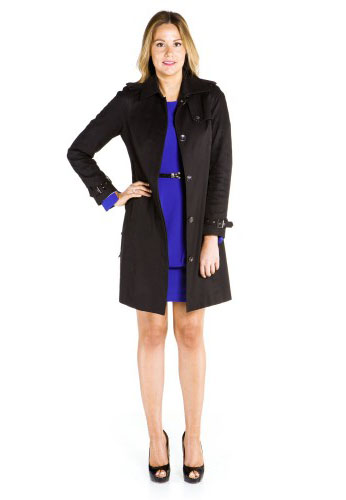
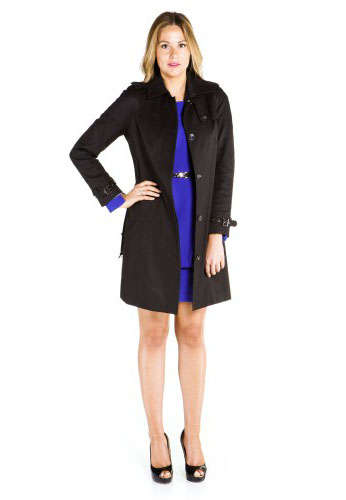
built

diff --git a/index.html b/index.html
@@ -4,9 +4,9 @@
     <meta charset="UTF-8">
     <title></title>
     <link href="https://maxcdn.bootstrapcdn.com/bootstrap/3.3.5/css/bootstrap.min.css" rel="stylesheet">
+    <link href="css/site.css" rel="stylesheet">
     <script src="https://code.jquery.com/jquery-2.1.4.min.js"></script>
     <script src="https://maxcdn.bootstrapcdn.com/bootstrap/3.3.5/js/bootstrap.min.js"></script>
-    <script src="match.js"></script>
     <!-- woman images from http://fashion360animation.com/ -->
 </head>
 <body>
@@ -22,39 +22,33 @@
     </div>
 
     <!-- 360 viewers -->
-    <div class="row" id="panel-viewer">
+    <div class="row" id="panel-viewer" unselectable="on">
         <div class="col-md-3 col-sm-6 portfolio-item">
-            <a href="#">
-                <img class="img-responsive" src="img/360/36.jpg" alt="">
-            </a>
+                <img id="turn-l" class="img-responsive" src="img/360/36.jpg" alt="">
         </div>
         <div class="col-md-3 col-sm-6 portfolio-item">
-            <a href="#">
-                <img class="img-responsive" src="img/360/14.jpg" alt="">
-            </a>
+                <img id="turn-m" class="img-responsive" src="img/360/12.jpg" alt="">
         </div>
         <div class="col-md-3 col-sm-6 portfolio-item">
-            <a href="#">
-                <img class="img-responsive" src="img/360/21.jpg" alt="">
-            </a>
+                <img id="turn-r" class="img-responsive" src="img/360/24.jpg" alt="">
         </div>
         <div class="col-md-3 col-sm-6 t-profile">
-            <h4>UptownGirly219</h4>
+            <h4><strong>UptownGirly219</strong></h4>
             <span class="basics">
-                29 year old woman <br>
-                London, UK <br>
-                Seeking men 26-35 within 50 miles
+                <b>29</b> year old woman <br>
+                <b>London</b>, UK <br>
+                Seeking men 26-35 <i>within 50 miles</i>
             </span>
             <span class="details">
-                    Relationship:Never Married<br>
-                    Have kids:No<br>
-                    Wants kids:Definitely<br>
-                    Ethnicity:White / Caucasian<br>
-                    Body type:About average<br>
-                    Height:5'7" (170cms)<br>
-                    Faith:Spiritual but not religious<br>
-                    Smoke:No Way<br>
-                    Drink:Social Drinker<br>
+                    Relationship: <span class="answer">Never Married</span><br>
+                    Have kids: <span class="answer">No</span><br>
+                    Wants kids: <span class="answer">Definitely</span><br>
+                    Ethnicity: <span class="answer">White / Caucasian</span><br>
+                    Body type: <span class="answer">About average</span><br>
+                    Height: <span class="answer">5'7" (170cms)</span><br>
+                    Faith: <span class="answer">Spiritual but not religious</span><br>
+                    Smoke: <span class="answer">No Way</span><br>
+                    Drink: <span class="answer">Social Drinker</span><br>
             </span>
 
         </div>
@@ -76,31 +70,6 @@
         </div>
     </div>
 </div>
+<script src="match.js"></script>
 </body>
-<style>
-    html{
-        background-color: #EDF3F7;
-    }
-    .t-container{
-        margin-top: 15px;
-    }
-    .t-header{
-        margin-top: 20px;
-        margin-bottom: 10px;
-    }
-    .t-header .img-md{
-        max-width:200px;
-    }
-    .t-profile{
-        padding: 30px;
-    }
-    .t-profile .basics{
-        color: #0f75bd;
-        display: block;
-        margin-bottom: 5px;
-    }
-    .t-profile .details{
-        color: #767676;
-    }
-</style>
 </html>

diff --git a/match.js b/match.js
@@ -1,28 +1,97 @@
-var t60 = function(){ //show some basic js object stuff
+var t60 = function(){ //show some RequireJS-like module format
+
+    var $arr;
+
     return {
 
         index: 0,
 
-        init: function(){
+        init: function () {
+            $arr = [$('#turn-l'), $('#turn-r'), $('#turn-m')];
             this.registerEvents();
         },
 
-        iterate: function(i){
-            this.index += i;
-            this.reset();
+        iterate: function (i) {
+            this.index = this.withinBounds(i + this.index);
+            this.setSrc();
         },
 
-        reset: function(){
-            console.log(this.index);
+        setSrc: function () {
+            for (var i in $arr) {
+                $arr[i].attr('src', 'img/360/' + this.getSrc(i) + '.jpg');
+            }
         },
 
-        registerEvents: function(){
-            $(document).on('click','.t-roll', function(e){
+        getSrc: function (i) {
+            switch (i) {
+                case '0':
+                    return this.index;
+                case '1':
+                    return this.withinBounds(this.index - 12);
+                case '2':
+                    return this.withinBounds(this.index - 24);
+            }
+        },
+
+        registerEvents: function () {
+            var self = this;
+            $(document).on('mousedown', '.t-roll', function (e) {
                 var i = $(e.currentTarget).attr('rel') === 'left' ? 1 : -1;
-                this.iterate(i);
-            }.bind(this));
+                self.startTimer(i);
+            });
+            $(document).on('mouseup', '.t-roll', function (e) {
+                self.stopTimer();
+            });
+            $(document).on('mousedown', '#panel-viewer', function (e) {
+                self.startDrag(e);
+            });
+            $(document).on('mouseup', function (e) {
+                self.endDrag();
+            });
+            $(document).on('mousemove', '#panel-viewer', function (e) {
+                if(self.watch === true){
+                    self.dragPosition(e, .12);
+                }
+            });
+        },
 
+        dragPosition: function(e, factor){
+            var movement = Math.round((this.x - e.pageX) * factor);
+            this.index = this.withinBounds(movement);
+            this.setSrc();
+        },
 
+        endDrag: function () {
+            this.watch = false;
+        },
+
+        startDrag: function (e) {
+            this.watch = true;
+            this.x = e.pageX;
+        },
+
+        startTimer: function (i) {
+            this.ticking = true;
+            setTimeout(function () {
+                if (this.ticking === true) {
+                    this.iterate(i);
+                    this.startTimer(i);
+                }
+            }.bind(this), 20);
+        },
+
+        stopTimer: function () {
+            this.ticking = false;
+        },
+
+        withinBounds: function (indx) {
+            while (indx <= 0) {
+                indx += 36;
+            }
+            while (indx > 36) {
+                indx += -36;
+            }
+            return indx;
         }
 
     }.init();

diff --git a/css/site.css b/css/site.css
@@ -1,0 +1,41 @@
+html{
+    background-color: #EDF3F7;
+}
+#panel-viewer{
+    cursor: ew-resize;
+    -webkit-user-drag: none;
+    -khtml-user-select: none;
+    -o-user-select: none;
+    -moz-user-select: none;
+    -webkit-user-select: none;
+    user-select: none;
+}
+
+#panel-viewer img{
+    pointer-events: none;
+    -webkit-user-drag: none;
+}
+.t-container{
+    margin-top: 15px;
+}
+.t-header{
+    margin-top: 20px;
+    margin-bottom: 10px;
+}
+.t-header .img-md{
+    max-width:200px;
+}
+.t-profile{
+    padding: 30px;
+}
+.t-profile .basics{
+    color: #0f75bd;
+    display: block;
+    margin-bottom: 5px;
+}
+.t-profile .details{
+    color: #767676;
+}
+.t-profile .answer{
+    color: #505050;
+}
